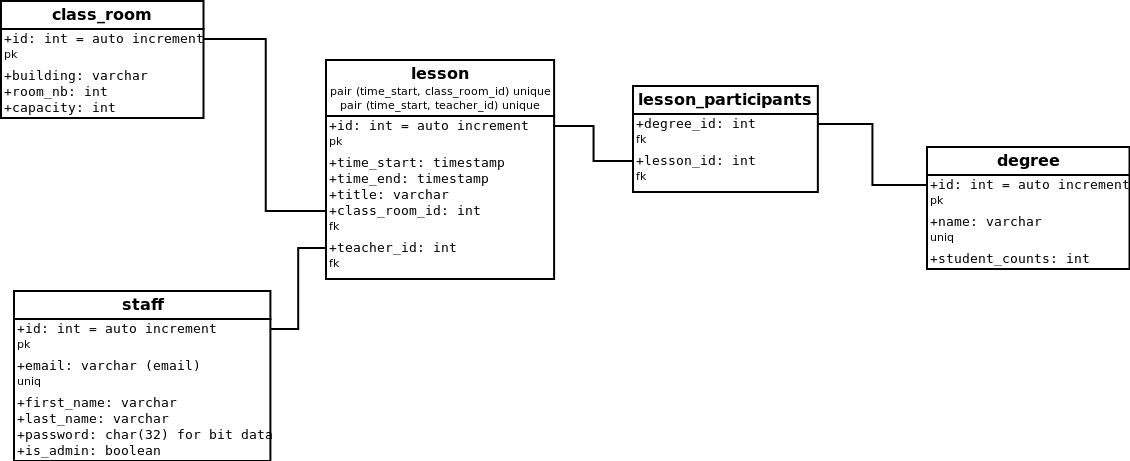
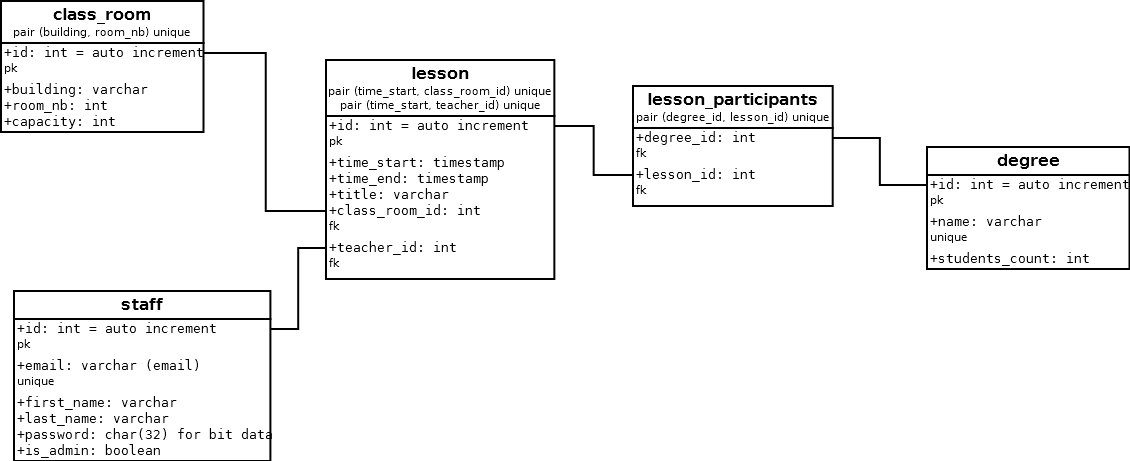
corrected mistakes in sql scripts and physicalModel diagram

diff --git a/webSchedule/src/java/model/NewMain.java b/webSchedule/src/java/model/NewMain.java
@@ -28,7 +28,22 @@ public class NewMain {
 //INNER JOIN DEGREE on LESSON_PARTICIPANTS.DEGREE_ID = DEGREE.ID
 //WHERE lesson.ID = 6;
 
+
+
+//SELECT * from LESSON_PARTICIPANTS
+//                   INNER JOIN DEGREE
+//                    ON LESSON_PARTICIPANTS.degree_id = DEGREE.id
+//                    WHERE lesson_id = 5;
+
         
+//SELECT * FROM LESSON
+//                 INNER JOIN class_room ON class_room.id=LESSON.CLASS_ROOM_ID
+//                INNER JOIN staff ON staff.id=LESSON.TEACHER_ID 
+//               WHERE teacher_id = 1
+//                 ORDER BY time_start
+
+
+
         LessonDAO lDAO = new LessonDAO();
         
 //        ArrayList<Degree> participants = new ArrayList<>();

diff --git a/webSchedule/src/java/model/LessonDAO.java b/webSchedule/src/java/model/LessonDAO.java
@@ -277,7 +277,7 @@ public class LessonDAO {
             Connection connection = myDataSource.getConnection();
             PreparedStatement partsStmt = connection.prepareStatement(sql);
 
-            int lesson_id = rs.getInt("lesson.id");
+            int lesson_id = rs.getInt(1);
 
             partsStmt.setInt(1, lesson_id);
             ResultSet partsRS = partsStmt.executeQuery();
